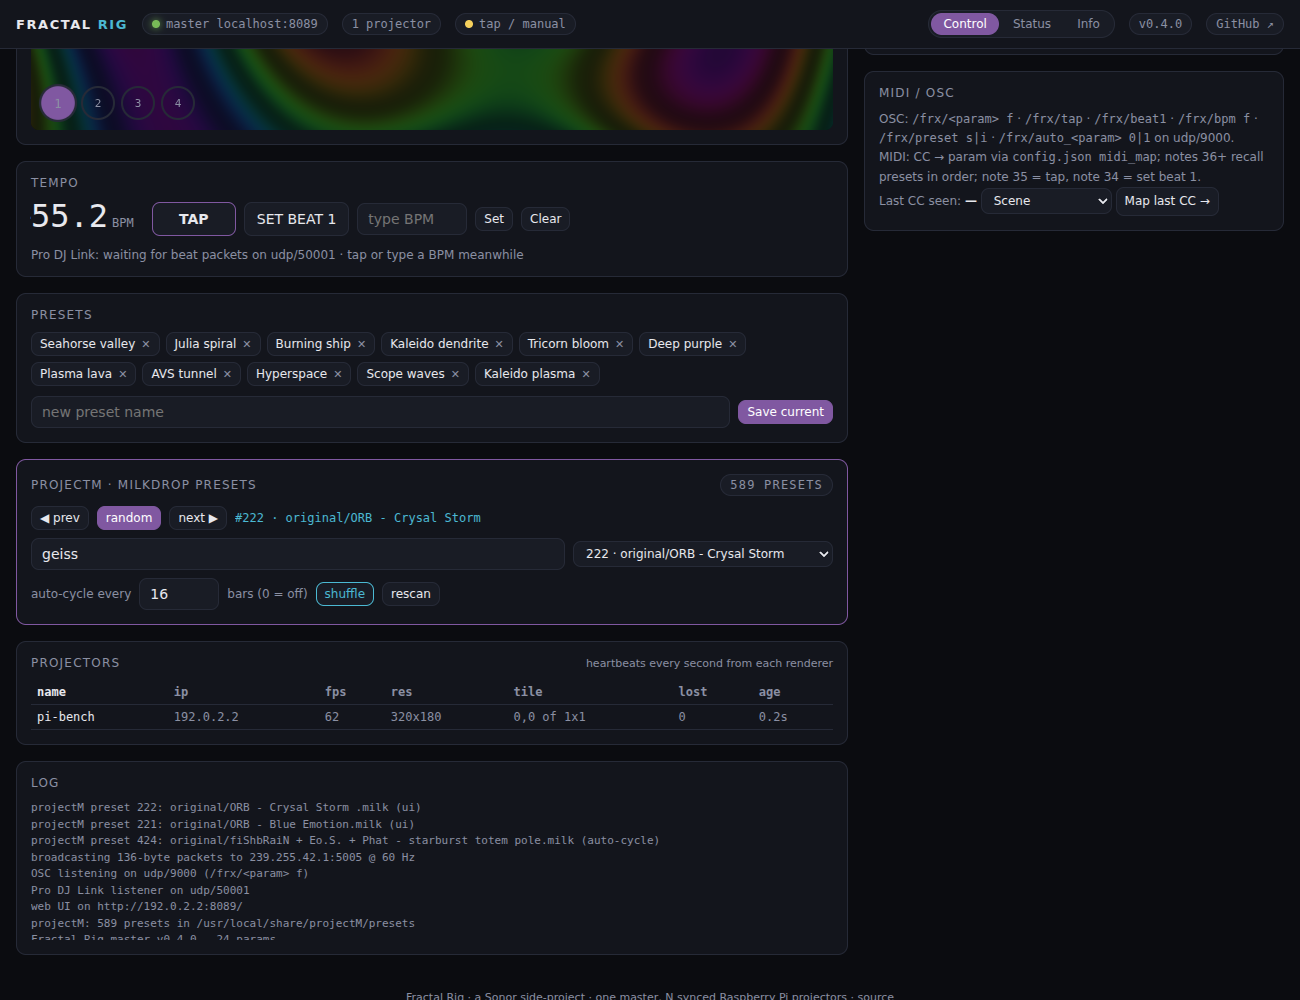
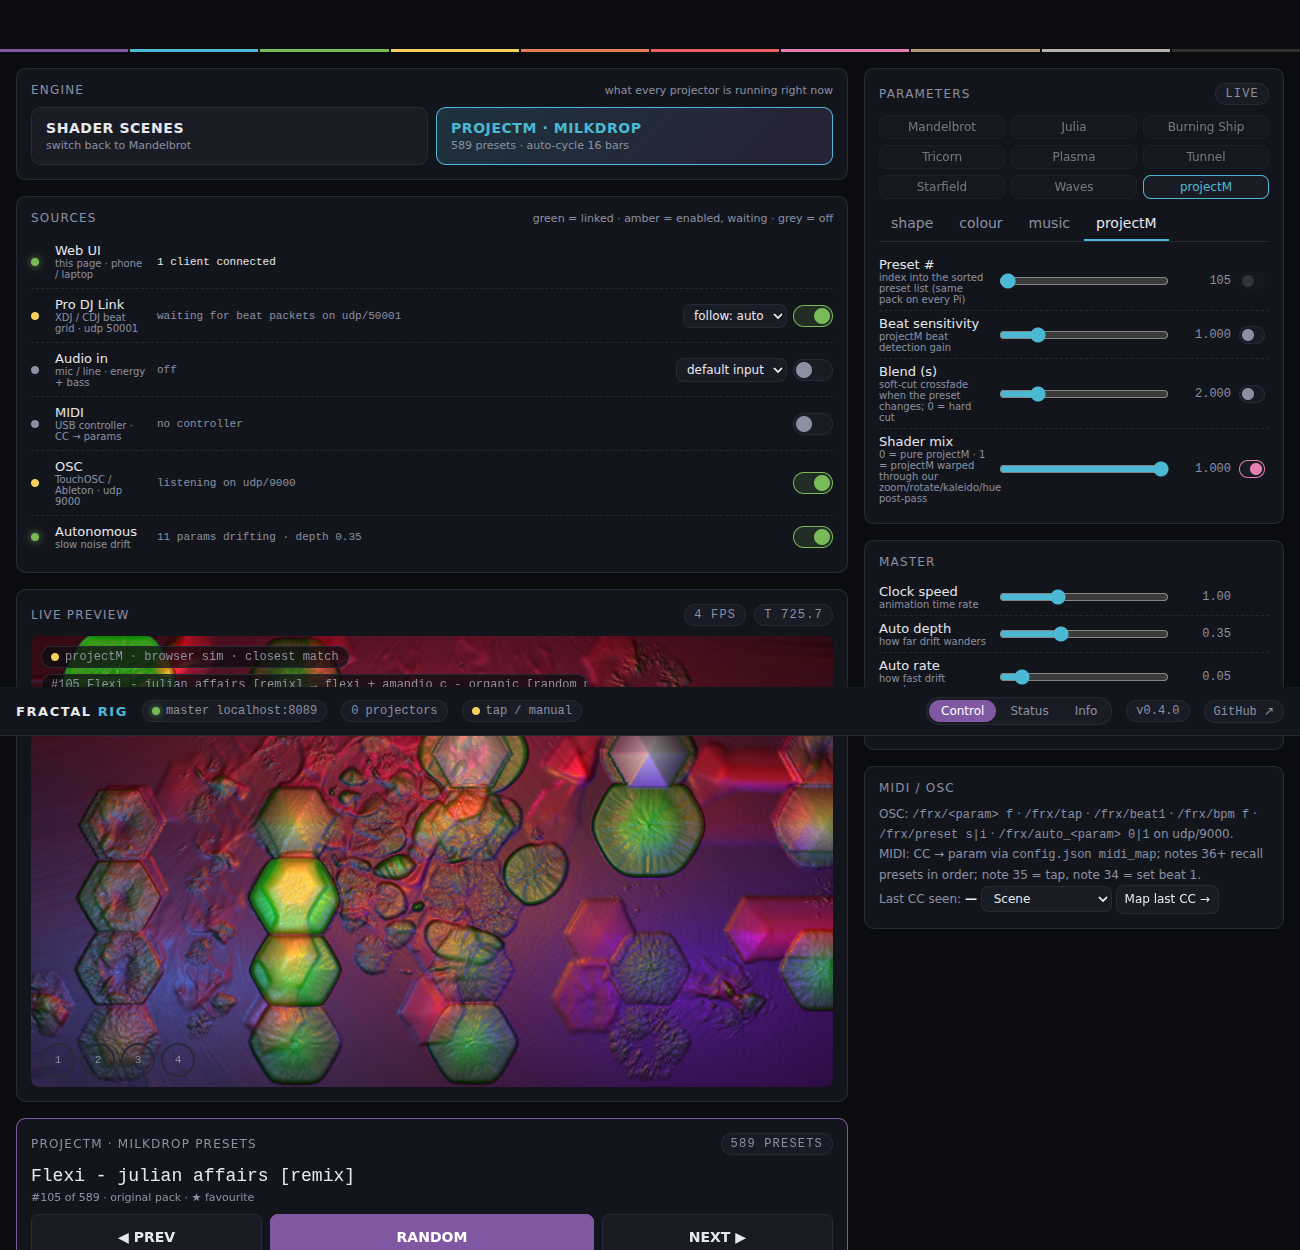
v0.4.2: engine switch (shader ⇄ projectM), extended projectM panel with browse/favourites/recent/hold, Pages demo uses Butterchurn packs

diff --git a/web/index.html b/web/index.html
@@ -145,6 +145,32 @@
   #info td { color: #cfd2db; font-family: var(--font); font-size: 13px; vertical-align: top; }
   #info td:first-child { font-family: var(--mono); white-space: nowrap; color: var(--text); }
   #info .toc { display: flex; flex-wrap: wrap; gap: 6px; }
+  /* engine switch + extended projectM UI */
+  .engine { display: grid; grid-template-columns: 1fr 1fr; gap: 8px; }
+  .engine button { border: 1px solid var(--line); background: var(--panel2); border-radius: 10px; padding: 12px 14px; text-align: left; color: var(--text); display: grid; gap: 3px; }
+  .engine button b { font-size: 14px; letter-spacing: .04em; }
+  .engine button small { color: var(--muted); font-size: 11px; }
+  .engine button.active { border-color: var(--accent2); background: linear-gradient(135deg, rgba(75,185,211,.18), rgba(128,88,161,.18)); }
+  .engine button.active b { color: var(--accent2); }
+  #pm-card.expanded .pm-ext { display: block; }
+  #pm-card.expanded #pm-select { display: none; }
+  .pm-ext { display: none; }
+  .pm-big { font-family: var(--mono); font-size: 18px; color: var(--text); line-height: 1.25; margin: 4px 0 10px; word-break: break-word; }
+  .pm-big small { display: block; color: var(--muted); font-size: 11px; font-family: var(--font); margin-top: 3px; }
+  .pm-nav { display: grid; grid-template-columns: 1fr 1.4fr 1fr; gap: 8px; margin-bottom: 10px; }
+  .pm-nav .btn { padding: 14px 10px; font-weight: 700; font-size: 14px; }
+  .pm-list { max-height: 260px; overflow: auto; border: 1px solid var(--line); border-radius: 8px; background: var(--panel2); font-family: var(--mono); font-size: 12px; }
+  .pm-list div { padding: 6px 10px; cursor: pointer; border-bottom: 1px solid var(--line); display: flex; gap: 8px; align-items: center; }
+  .pm-list div:hover { background: rgba(75,185,211,.08); }
+  .pm-list div.cur { background: rgba(128,88,161,.25); color: #fff; }
+  .pm-list .n { color: var(--muted); min-width: 42px; }
+  .pm-list .fav { margin-left: auto; color: var(--muted); }
+  .pm-list .fav.on { color: var(--warn); }
+  .chips { display: flex; gap: 6px; flex-wrap: wrap; margin-top: 8px; }
+  .chips .btn { max-width: 100%; overflow: hidden; text-overflow: ellipsis; white-space: nowrap; }
+  body.pm-mode .modes button:not([data-mode="8"]) { opacity: .45; }
+  @media (max-width: 700px) { .engine button { padding: 10px; } .pm-nav .btn { padding: 12px 6px; font-size: 13px; } .pm-big { font-size: 15px; } }
+
   /* ---- mobile ---- */
   .card .tablewrap { overflow-x: auto; -webkit-overflow-scrolling: touch; }
   @media (max-width: 700px) {
@@ -198,7 +224,7 @@
   <span class="pill" id="pill-tempo"><i class="dot" id="tempo-dot"></i><span id="tempo-label">no tempo</span></span>
   <div class="spacer"></div>
   <nav class="nav" id="nav"><button data-view="control" class="active">Control</button><button data-view="status">Status</button><button data-view="info">Info</button></nav>
-  <span class="pill" id="pill-ver">v0.4.1</span>
+  <span class="pill" id="pill-ver">v0.4.2</span>
   <a class="pill" href="https://github.com/sonorltd/sonor-fractal-rig" target="_blank" rel="noopener">GitHub ↗</a>
 </header>
 <div class="strip" aria-hidden="true">
@@ -214,6 +240,14 @@
         <input class="text" id="master-url" placeholder="ws://fractal-master.local:8080/ws">
         <button class="btn small" id="master-connect">Connect to a master</button>
       </span>
+    </div>
+
+    <div class="card">
+      <h2>Engine <span class="spacer"></span><span style="color:var(--muted);font-size:11px;text-transform:none;letter-spacing:0">what every projector is running right now</span></h2>
+      <div class="engine">
+        <button id="eng-shader"><b>SHADER SCENES</b><small id="eng-shader-sub">fractals · plasma · tunnel · starfield · waves — pixel-synced</small></button>
+        <button id="eng-pm"><b>PROJECTM · MILKDROP</b><small id="eng-pm-sub">real .milk presets on every Pi</small></button>
+      </div>
     </div>
 
     <div class="card">
@@ -262,24 +296,34 @@
 
     <div class="card" id="pm-card">
       <h2>projectM · Milkdrop presets <span class="spacer"></span><span class="pill" id="pm-count">—</span></h2>
-      <div class="row" style="margin-bottom:8px">
-        <button class="btn small" id="pm-prev">◀ prev</button>
-        <button class="btn small primary" id="pm-random">random</button>
-        <button class="btn small" id="pm-next">next ▶</button>
-        <span style="flex:1;min-width:120px;font-family:var(--mono);font-size:12px;color:var(--accent2);overflow:hidden;text-overflow:ellipsis;white-space:nowrap" id="pm-name">—</span>
+      <div class="pm-ext">
+        <div class="pm-big"><span id="pm-big-name">—</span><small id="pm-big-sub"></small></div>
+        <div class="pm-nav">
+          <button class="btn" id="pm-prev">◀ PREV</button>
+          <button class="btn primary" id="pm-random">RANDOM</button>
+          <button class="btn" id="pm-next">NEXT ▶</button>
+        </div>
       </div>
       <div class="row" style="margin-bottom:8px">
-        <input class="text" id="pm-search" placeholder="search presets… (type, then pick)" list="pm-list" autocomplete="off">
-        <datalist id="pm-list"></datalist>
-        <select id="pm-select" class="btn small" style="max-width:260px"></select>
+        <span class="pm-ext" style="display:none"></span>
+        <input class="text" id="pm-search" placeholder="filter presets… (name, author)" autocomplete="off">
+        <button class="btn small" id="pm-favonly" title="show favourites only">★ favs</button>
+        <button class="btn small" id="pm-favtoggle" title="favourite the current preset">☆</button>
+        <select id="pm-select" class="btn small pm-collapsed" style="max-width:260px"></select>
       </div>
-      <div class="row">
+      <div class="pm-ext">
+        <div class="pm-list" id="pm-browse"></div>
+        <div class="chips" id="pm-history"></div>
+      </div>
+      <div class="row" style="margin-top:8px">
         <label style="font-size:12px;color:var(--muted)">auto-cycle every</label>
         <input class="text" id="pm-cycle" type="number" min="0" max="256" step="1" style="flex:0 0 80px"> <span style="font-size:12px;color:var(--muted)">bars (0 = off)</span>
         <button class="btn small" id="pm-shuffle">shuffle</button>
+        <button class="btn small" id="pm-hold" title="pause auto-cycle on this preset">hold</button>
         <button class="btn small" id="pm-rescan" title="re-read the preset folder on the master">rescan</button>
         <span class="hint" id="pm-hint" style="margin:0"></span>
       </div>
+      <div class="hint pm-ext">Blend, beat sensitivity and shader-mix sliders are in the <b>projectM</b> parameter tab on the right. Presets marked ★ are favourites (saved in this browser). In projectM mode the kaleidoscope / rotation / zoom / hue controls apply through <code>Shader mix</code>.</div>
     </div>
 
     <div class="card">
@@ -522,6 +566,7 @@ sudo bash setup/install.sh master</pre>
       <tr><td>v0.1.0</td><td>Renderer (C/SDL2/GLES3), master (Python asyncio), 4 fractal scenes, web UI with live WebGL preview and Pages demo mode, passive Pro DJ Link, MIDI/OSC/audio adapters, install script + systemd units, PROTOCOL.md.</td></tr>
       <tr><td>v0.2.0</td><td>Plasma / Tunnel / Starfield / Waves scenes; Sources panel with live link status and per-source on/off, audio device picker, Pro DJ Link deck-follow; this Info tab.</td></tr>
       <tr><td>v0.3.0</td><td>Status &amp; debugging tab; heartbeat carries CPU temp; <code>selftest.sh</code>; SET BEAT 1 bar resync (key 1, OSC, MIDI 34); mobile-adaptive layout.</td></tr>
+      <tr><td>v0.4.2</td><td>Engine switch (Shader scenes ⇄ projectM) and the extended projectM panel: big preset name, PREV / RANDOM / NEXT, filterable browse list with ★ favourites, recent chips, hold, auto-cycle; works in the Pages demo too.</td></tr>
       <tr><td>v0.4.1</td><td>In-browser projectM simulation in the Live preview (Butterchurn — Milkdrop 2 in WebGL, vendored, offline-capable), matched by preset name to what the Pis are showing.</td></tr>
       <tr><td>v0.4.0</td><td>projectM scene 8: libprojectM 4 built with GLES on each Pi, master-owned preset selection with search / prev / next / random / auto-cycle every N bars, PCM multicast stream with beat-locked synthetic fallback, kaleido/zoom/hue post-pass via <code>pm_mix</code>, <code>install-projectm.sh</code>, heartbeat v3 (preset count / current / audio).</td></tr>
     </tbody></table>
@@ -617,6 +662,11 @@ function demoTick() {
   const now = performance.now(), dt = Math.min((now - lastDemo) / 1000, 0.25); lastDemo = now;
   S.t += dt * S.clock_speed; S.tRecv = now;
   if (S.bpm > 0 && S.t - S.beat_t > 60) { const per = 60 / S.bpm, n = Math.floor((S.t - S.beat_t) / per); S.beat_t += n * per; if (S.bar_beat) S.bar_beat = ((S.bar_beat - 1 + n) % 4) + 1; }
+  if (Math.round(S.base.mode) === 8 && S.pm.cycle_bars > 0 && (S.pm_presets || []).length > 1) {   // demo auto-cycle, same rule as engine.py
+    const bars = S.bpm > 0 ? Math.floor((S.t - S.beat_t) * S.bpm / 60 / 4) : Math.floor(S.t / (S.pm.cycle_bars * 2)) * S.pm.cycle_bars;
+    if (S._pmBar == null) S._pmBar = bars;
+    if (bars - S._pmBar >= S.pm.cycle_bars) { S._pmBar = bars; const n = S.pm_presets.length; S.pm.index = S.pm.shuffle ? Math.floor(Math.random() * n) : (S.pm.index + 1) % n; S.base.pm_preset = S.pm.index; logLocal('preset ' + S.pm.index + ' (auto-cycle)'); renderControls(); }
+  }
   const x = S.t * S.auto_rate;
   PARAMS.forEach((p, i) => {
     let v = S.base[p.key];
@@ -666,7 +716,7 @@ let activeGroup = 'shape';
 function buildControls() {
   $('modes').innerHTML = MODE_NAMES.map((n, i) => `<button class="btn small" data-mode="${i}">${n}</button>`).join('');
   $('modes').querySelectorAll('button').forEach(b => b.onclick = () => send({set: {mode: +b.dataset.mode}}));
-  $('tabs').innerHTML = GROUPS.map(g => `<button data-g="${g}" class="${g === activeGroup ? 'active' : ''}">${g}</button>`).join('');
+  $('tabs').innerHTML = GROUPS.map(g => `<button data-g="${g}" class="${g === activeGroup ? 'active' : ''}">${g === 'projectm' ? 'projectM' : g}</button>`).join('');
   $('tabs').querySelectorAll('button').forEach(b => b.onclick = () => { activeGroup = b.dataset.g; buildControls(); });
   $('params').innerHTML = PARAMS.filter(p => p.group === activeGroup && p.key !== 'mode').map(p => `
     <div class="param" data-key="${p.key}">
@@ -760,16 +810,28 @@ function buildPmList() {
   sel.onchange = () => send({pm: {index: +sel.value}});
   $('pm-hint').innerHTML = list.length ? '' : (S.live ? 'Master has no presets in <code>pm_preset_dir</code>. Run <code>sudo bash setup/install-projectm.sh</code> on every Pi (master included), then rescan.' : 'Demo mode — preset list comes from the master.');
 }
-let pmSearchT = null;
-$('pm-search').oninput = () => {
-  clearTimeout(pmSearchT);
-  pmSearchT = setTimeout(() => {
-    const q = $('pm-search').value.toLowerCase(); if (q.length < 2) return;
-    const hits = []; (S.pm_presets || []).forEach((n, i) => { if (hits.length < 40 && n.toLowerCase().includes(q)) hits.push([i, n]); });
-    $('pm-list').innerHTML = hits.map(([i, n]) => `<option value="${i} · ${esc(n.replace(/\.milk$|\.prjm$/i, ''))}">`).join('');
-  }, 120);
-};
-$('pm-search').onchange = () => { const m = /^(\d+)\s·/.exec($('pm-search').value); if (m) { send({pm: {index: +m[1]}}); $('pm-search').value = ''; } };
+let pmSearchT = null, pmFavOnly = false, pmHeld = 0;
+const pmFavs = (() => { try { return new Set(JSON.parse(localStorage.getItem('frx.pmfav') || '[]')); } catch (e) { return new Set(); } })();
+const saveFavs = () => { try { localStorage.setItem('frx.pmfav', JSON.stringify([...pmFavs])); } catch (e) {} };
+const shortName = n => (n || '').replace(/^.*\//, '').replace(/\.(milk|prjm)$/i, '');
+$('pm-search').oninput = () => { clearTimeout(pmSearchT); pmSearchT = setTimeout(renderPmList, 120); };
+$('pm-favonly').onclick = () => { pmFavOnly = !pmFavOnly; $('pm-favonly').className = 'btn small' + (pmFavOnly ? ' active' : ''); renderPmList(); };
+$('pm-favtoggle').onclick = () => { const n = (S.pm_presets || [])[S.pm.index]; if (!n) return; if (pmFavs.has(n)) pmFavs.delete(n); else pmFavs.add(n); saveFavs(); renderPm(); renderPmList(); };
+$('pm-hold').onclick = () => { if (S.pm.cycle_bars > 0) { pmHeld = S.pm.cycle_bars; send({pm: {cycle_bars: 0}}); } else if (pmHeld) { send({pm: {cycle_bars: pmHeld}}); pmHeld = 0; } };
+let pmListSig = '';
+function renderPmList() {
+  const list = S.pm_presets || [], q = $('pm-search').value.trim().toLowerCase();
+  const rows = []; const MAX = 400;
+  list.forEach((n, i) => { if (rows.length >= MAX) return; if (pmFavOnly && !pmFavs.has(n)) return; if (q && !n.toLowerCase().includes(q)) return; rows.push(i); });
+  const sig = rows.join(',') + '|' + S.pm.index + '|' + [...pmFavs].length;
+  if (sig === pmListSig) return; pmListSig = sig;
+  $('pm-browse').innerHTML = rows.map(i => `<div data-i="${i}" class="${i === S.pm.index ? 'cur' : ''}"><span class="n">#${i}</span><span>${esc(shortName(list[i]))}</span><span class="fav ${pmFavs.has(list[i]) ? 'on' : ''}" data-fav="${i}">★</span></div>`).join('') || `<div style="color:var(--muted)">${list.length ? 'no matches' : 'no presets'}</div>` + (list.length > MAX && rows.length >= MAX ? `<div style="color:var(--muted)">showing first ${MAX} — type to filter</div>` : '');
+  $('pm-browse').querySelectorAll('div[data-i]').forEach(d => d.onclick = e => { if (e.target.dataset.fav != null) { const n = list[+e.target.dataset.fav]; if (pmFavs.has(n)) pmFavs.delete(n); else pmFavs.add(n); saveFavs(); pmListSig = ''; renderPmList(); return; } send({pm: {index: +d.dataset.i}}); });
+  const cur = $('pm-browse').querySelector('.cur'); if (cur && !$('pm-browse').matches(':hover')) cur.scrollIntoView({block: 'nearest'});
+}
+let pmHist = [];
+let wasOn8 = null, lastShaderMode = (() => { try { return +localStorage.getItem('frx.lastShader') || 0; } catch (e) { return 0; } })();
+
 $('pm-prev').onclick = () => send({pm: {prev: 1}});
 $('pm-next').onclick = () => send({pm: {next: 1}});
 $('pm-random').onclick = () => send({pm: {random: 1}});
@@ -779,15 +841,33 @@ $('pm-shuffle').onclick = () => send({pm: {shuffle: !S.pm.shuffle}});
 function renderPm() {
   const pm = S.pm || {}; const list = S.pm_presets || [];
   const name = list[pm.index] || pm.name || '—';
-  $('pm-name').textContent = list.length ? `#${pm.index} · ${name.replace(/\.milk$|\.prjm$/i, '')}` : '—';
-  $('pm-name').title = name;
   if (document.activeElement !== $('pm-select')) $('pm-select').value = String(pm.index || 0);
   if (document.activeElement !== $('pm-cycle')) $('pm-cycle').value = pm.cycle_bars == null ? 16 : pm.cycle_bars;
   $('pm-shuffle').className = 'btn small' + (pm.shuffle ? ' active' : '');
   const on8 = Math.round(S.base.mode) === 8;
   $('pm-card').style.borderColor = on8 ? 'var(--accent)' : '';
+  $('pm-card').classList.toggle('expanded', on8);
+  document.body.classList.toggle('pm-mode', on8);
+  $('eng-shader').className = on8 ? '' : 'active'; $('eng-pm').className = on8 ? 'active' : '';
+  $('eng-shader-sub').textContent = on8 ? 'switch back to ' + MODE_NAMES[lastShaderMode] : MODE_NAMES[Math.round(S.base.mode)] + ' · fractals · plasma · tunnel · starfield · waves — pixel-synced';
+  $('eng-pm-sub').textContent = list.length ? `${list.length} presets · ${pm.cycle_bars ? 'auto-cycle ' + pm.cycle_bars + ' bars' : 'manual'}` : 'real .milk presets on every Pi';
+  $('pm-big-name').textContent = list.length ? shortName(name) : '—';
+  $('pm-big-sub').textContent = list.length ? `#${pm.index} of ${list.length} · ${name.includes('/') ? name.split('/')[0] + ' pack' : ''}${pmFavs.has(name) ? ' · ★ favourite' : ''}` : '';
+  $('pm-favtoggle').textContent = pmFavs.has(name) ? '★' : '☆';
+  $('pm-hold').className = 'btn small' + (pm.cycle_bars === 0 && pmHeld ? ' active' : '');
+  $('pm-hold').textContent = pm.cycle_bars === 0 && pmHeld ? 'held' : 'hold';
+  if (list.length && (pmHist[0] !== pm.index)) { pmHist = [pm.index].concat(pmHist.filter(i => i !== pm.index)).slice(0, 8); $('pm-history').innerHTML = pmHist.length > 1 ? '<span style="font-size:11px;color:var(--muted);align-self:center">recent:</span>' + pmHist.slice(1).map(i => `<button class="btn small" data-h="${i}" title="${esc(list[i] || '')}">#${i} ${esc(shortName(list[i] || '').slice(0, 28))}</button>`).join('') : ''; $('pm-history').querySelectorAll('[data-h]').forEach(b => b.onclick = () => send({pm: {index: +b.dataset.h}})); }
+  if (on8) renderPmList();
+  // in projectM mode the card sits right under the preview
+  const previewCard = document.querySelector('.previewwrap').closest('.card'), pmCard = $('pm-card');
+  if (on8 && pmCard.previousElementSibling !== previewCard) previewCard.after(pmCard);
+  if (!on8 && pmCard.previousElementSibling === previewCard) document.querySelector('#fleet').closest('.card').before(pmCard);
   if (!on8) $('pm-overlay').hidden = true;
+  if (on8 !== wasOn8) { wasOn8 = on8; if (on8) { activeGroup = 'projectm'; buildControls(); } else if (activeGroup === 'projectm') { activeGroup = 'shape'; buildControls(); } }
+  if (!on8 && Math.round(S.base.mode) !== lastShaderMode) { lastShaderMode = Math.round(S.base.mode); try { localStorage.setItem('frx.lastShader', lastShaderMode); } catch (e) {} }
 }
+$('eng-pm').onclick = () => send({set: {mode: 8}});
+$('eng-shader').onclick = () => send({set: {mode: lastShaderMode}});
 $('tap').onclick = () => send({tap: 1});
 $('beat1').onclick = () => send({beat1: 1});
 $('bpm-set').onclick = () => send({bpm: +$('bpm-in').value});
@@ -1002,6 +1082,7 @@ async function bcInit() {
     BC.viz = lib.createVisualizer(BC.ctx, bcCanvas, {width: BC.w, height: BC.h, pixelRatio: 1, textureRatio: 1});
     BC.tba = {timeByteArray: new Uint8Array(1024), timeByteArrayL: new Uint8Array(1024), timeByteArrayR: new Uint8Array(1024)};
     BC.state = 'ready'; BC.lastIdx = -1;
+    if (!S.live) { S.pm_presets = BC.keys.map(k => 'butterchurn/' + k + '.milk'); S.pm.count = S.pm_presets.length; buildPmList(); renderPm(); }   // Pages demo: browse the real browser pack
     logLocal(`browser Milkdrop sim ready: ${BC.keys.length} presets (Butterchurn)`);
   } catch (e) { BC.state = 'failed'; $('pm-sim-label').textContent = 'browser sim unavailable: ' + e.message; console.error(e); }
 }

diff --git a/renderer/fractal.c b/renderer/fractal.c
@@ -38,7 +38,7 @@
 #include "params.h"
 #include "pm_bridge.h"
 
-#define APP_VERSION "0.4.1"
+#define APP_VERSION "0.4.2"
 #define FREEWHEEL_AFTER 3.0      /* s without packets before we run on our own clock */
 #define SMOOTH_TAU 0.06          /* s — exponential smoothing of continuous params */
 #define TAU_D 6.283185307179586

diff --git a/master/master.py b/master/master.py
@@ -24,7 +24,7 @@ from engine import Engine
 from params import PARAMS, KEYS, PACKET_SIZE
 import inputs
 
-APP_VERSION = "0.4.1"
+APP_VERSION = "0.4.2"
 
 
 def load_config(args):

diff --git a/CLAUDE.md b/CLAUDE.md
@@ -1,6 +1,6 @@
-# STUDIO - Fractal Rig (v0.4.1)
+# STUDIO - Fractal Rig (v0.4.2)
 
-> Current version: 0.4.1 · Repo: `sonor-fractal-rig` · Pages: https://sonorltd.github.io/sonor-fractal-rig/
+> Current version: 0.4.2 · Repo: `sonor-fractal-rig` · Pages: https://sonorltd.github.io/sonor-fractal-rig/
 > Type: side-project (STUDIO class, like STUDIO - Hub). Not a customer-facing Sonor product.
 
 Multi-Raspberry-Pi fractal projection rig: one master broadcasting a 136-byte UDP multicast
@@ -61,6 +61,10 @@ optional audio, autonomous drift. **Read `README.md` and `PROTOCOL.md` first.**
   `web/vendor/`, ~2 MB, lazy-loaded on scene 8) fed the same synthetic beat audio as the Pis; preset
   matched by name to the Pi's current preset (exact / closest / stand-in, labelled). Master serves
   `/vendor/`. Not a pixel copy of the Pis — a simulation.
+- 2026-09-10 v0.4.2 — Engine switch card (Shader scenes ⇄ projectM) at the top of Control; extended
+  projectM UI when active (big preset name, PREV/RANDOM/NEXT, filterable browse list with ★ favourites
+  in localStorage, recent chips, hold, auto-cycle); card reorders under the preview; params tab jumps
+  to projectM. Pages demo seeds the preset list from Butterchurn's packs and auto-cycles locally.
 
 ## App-specific rules
 - Renderer must stay single-threaded C with no deps beyond SDL2 + GLES — it has to be boring.
